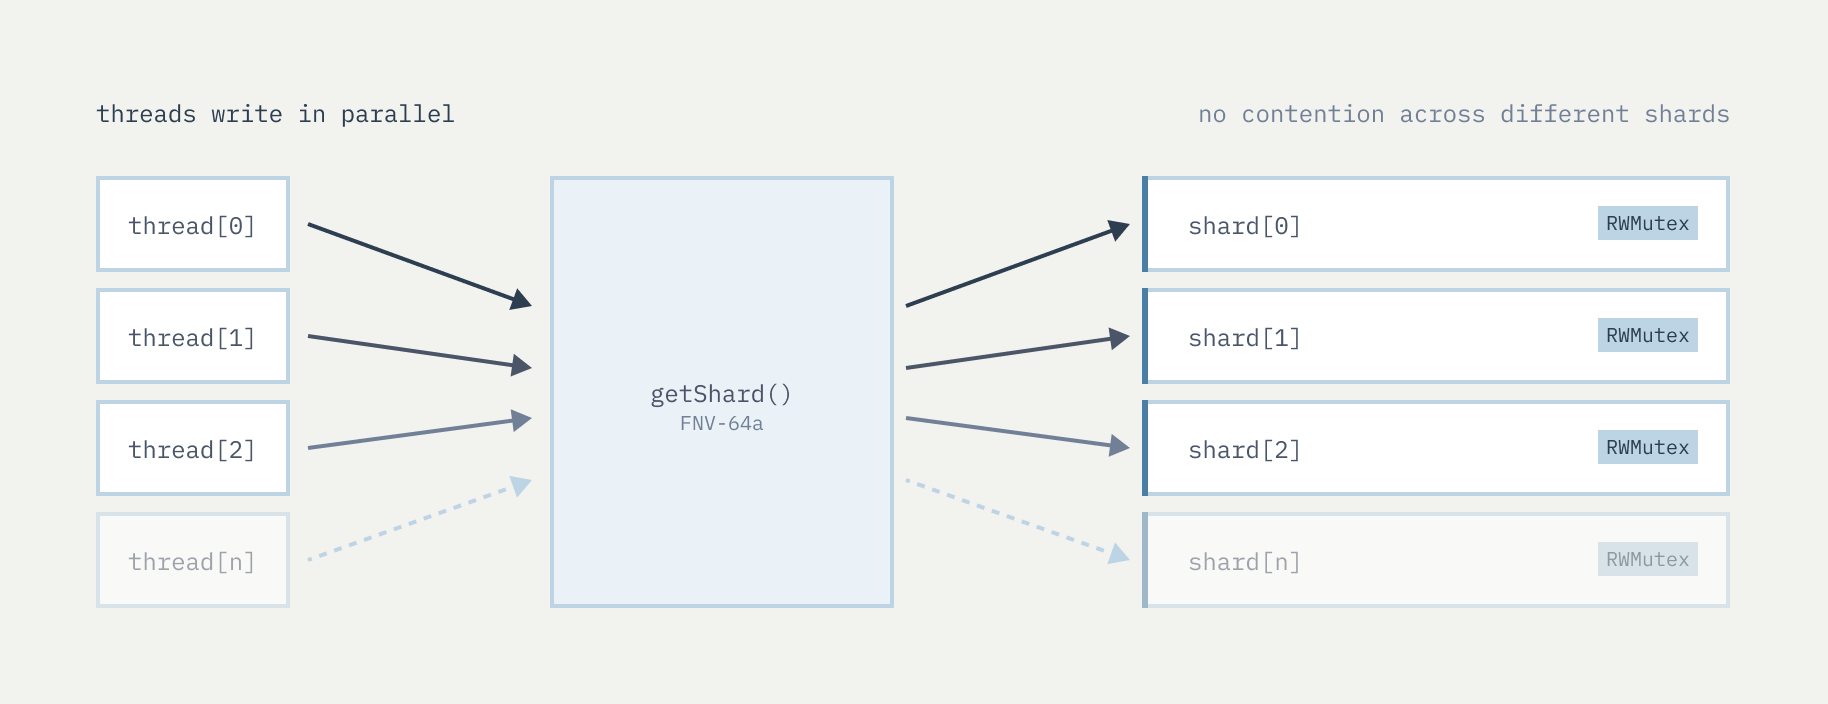
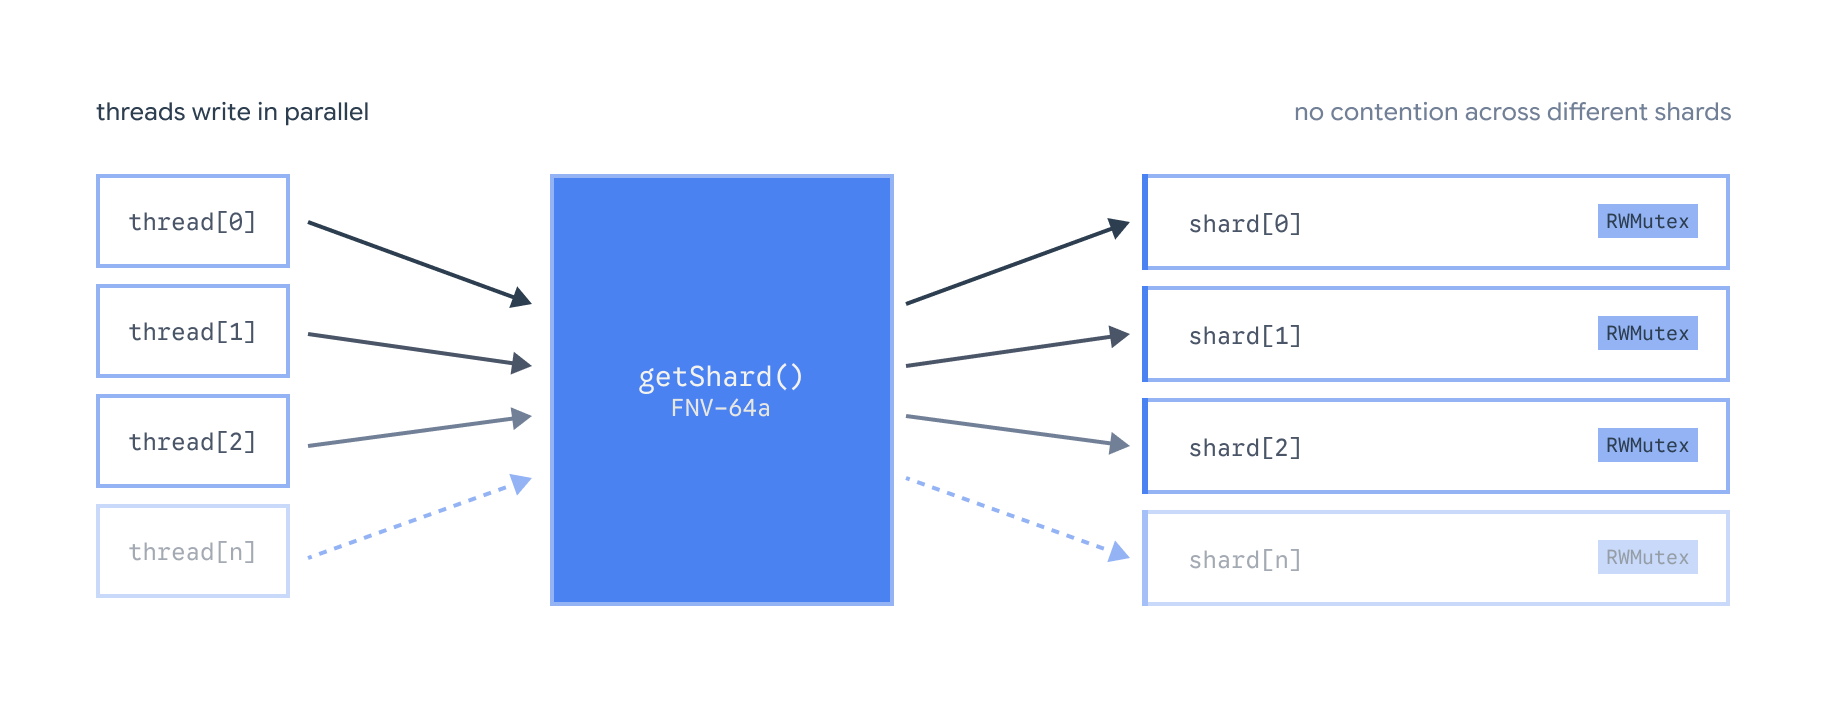
feat(articles): add code-block copy/language and words definition

diff --git a/layouts/_default/single.html b/layouts/_default/single.html
@@ -270,6 +270,168 @@
       border-radius: 0;
     }
 
+    /* CODE BLOCKS */
+    .article-body .code-block {
+      background: #272822;
+      border-radius: var(--radius);
+      overflow: hidden;
+      margin-top: 1.5rem;
+      margin-bottom: 1.5rem;
+    }
+
+    .code-block-bar {
+      display: flex;
+      justify-content: space-between;
+      align-items: center;
+      gap: 0.6rem;
+      padding: 0.75rem 1.5rem 0;
+      font-family: 'Google Sans Code', monospace;
+      font-size: 0.7rem;
+      letter-spacing: 0.06em;
+      line-height: 1.4;
+    }
+
+    .code-block-lang {
+      color: #a5a49a;
+      text-transform: lowercase;
+    }
+
+    .code-block-copy {
+      display: inline-flex;
+      align-items: center;
+      gap: 0.35rem;
+      font: inherit;
+      color: #a5a49a;
+      background: transparent;
+      border: none;
+      padding: 0;
+      cursor: pointer;
+      transition: color 0.2s;
+    }
+
+    .code-block-copy:hover {
+      color: #f8f8f2;
+    }
+
+    .code-block-copy.copied {
+      color: #a6e22e;
+    }
+
+    .article-body .code-block .highlight,
+    .article-body .code-block pre {
+      margin: 0;
+      border-radius: 0;
+    }
+
+    .article-body .code-block pre {
+      padding-top: 0.75rem;
+    }
+
+    /* DEFINITIONS */
+    .def {
+      position: relative;
+      display: inline-block;
+      cursor: help;
+      outline: none;
+    }
+
+    .def-term {
+      border-bottom: 1px dashed var(--ink-faint);
+      transition: color 0.2s, border-color 0.2s;
+    }
+
+    .def:hover .def-term,
+    .def:focus-visible .def-term,
+    .def.is-pinned .def-term {
+      color: var(--blue);
+      border-bottom-color: var(--blue);
+    }
+
+    .def.is-pinned .def-term { border-bottom-style: solid; }
+
+    /* inline code as the term: mark the code element itself, its own
+       background and border would otherwise hide the underline */
+    .def-code .def-term,
+    .def-term:has(> code) { border-bottom: none; }
+
+    .def-code .def-term > code,
+    .def-term > code {
+      border-bottom: 1px dashed var(--ink-faint);
+      transition: color 0.2s, background 0.2s, border-color 0.2s;
+    }
+
+    .def-code:hover .def-term > code,
+    .def-code:focus-visible .def-term > code,
+    .def-code.is-pinned .def-term > code,
+    .def:hover .def-term > code,
+    .def:focus-visible .def-term > code,
+    .def.is-pinned .def-term > code {
+      color: var(--blue);
+      background: var(--blue-bg);
+      border-color: var(--blue-border);
+      border-bottom-color: var(--blue);
+    }
+
+    .def-code.is-pinned .def-term > code,
+    .def.is-pinned .def-term > code { border-bottom-style: solid; }
+
+    .def-popup {
+      position: absolute;
+      left: 50%;
+      bottom: calc(100% + 0.5rem);
+      transform: translateX(calc(-50% + var(--def-shift, 0px)));
+      z-index: 10;
+      width: max-content;
+      max-width: min(20rem, calc(100vw - 2rem));
+      padding: 0.6rem 0.8rem;
+      background: var(--bg);
+      border: 1px solid var(--border);
+      border-radius: var(--radius);
+      box-shadow: 0 6px 20px rgba(44, 62, 80, 0.12);
+      font-family: var(--font-sans);
+      font-size: 0.82rem;
+      font-style: normal;
+      font-weight: 400;
+      line-height: 1.55;
+      color: var(--ink-muted);
+      text-align: left;
+      cursor: auto;
+      opacity: 0;
+      visibility: hidden;
+      transition: opacity 0.15s, visibility 0.15s;
+    }
+
+    /* invisible bridge so moving the cursor into the popup keeps it open */
+    .def-popup::after {
+      content: '';
+      position: absolute;
+      left: 0;
+      right: 0;
+      top: 100%;
+      height: 0.5rem;
+    }
+
+    .def-popup.def-popup--below {
+      bottom: auto;
+      top: calc(100% + 0.5rem);
+    }
+
+    .def-popup.def-popup--below::after {
+      top: auto;
+      bottom: 100%;
+    }
+
+    .def-popup code {
+      font-size: 0.85em;
+    }
+
+    .def:hover .def-popup,
+    .def:focus-visible .def-popup,
+    .def.is-pinned .def-popup {
+      opacity: 1;
+      visibility: visible;
+    }
+
     .article-body ul,
     .article-body ol {
       padding-left: 1.5rem;
@@ -332,6 +494,7 @@
       .article { padding: 2.5rem 0 2rem; }
       .article-back { margin-bottom: 2rem; }
       .article-body pre { padding: 1rem; }
+      .code-block-bar { padding: 0.65rem 1rem 0; }
       footer { flex-direction: column; gap: 1rem; align-items: flex-start; }
       .footer-links { flex-wrap: wrap; gap: 1rem; }
     }
@@ -382,6 +545,171 @@
   </footer>
 
 </div>
+
+{{ with site.Data.glossary }}
+<template id="glossary-defs">
+  {{ range . }}
+  <span data-term="{{ .term }}" data-match="{{ .match | jsonify }}">{{ .def | $.RenderString }}</span>
+  {{ end }}
+</template>
+{{ end }}
+
+<script>
+  document.querySelectorAll('.code-block-copy').forEach(function (btn) {
+    var label = btn.querySelector('.code-block-copy-label');
+    var timer;
+    btn.addEventListener('click', function () {
+      var code = btn.closest('.code-block').querySelector('code');
+      navigator.clipboard.writeText(code.innerText).then(function () {
+        btn.classList.add('copied');
+        label.textContent = 'copied';
+        clearTimeout(timer);
+        timer = setTimeout(function () {
+          btn.classList.remove('copied');
+          label.textContent = 'copy';
+        }, 1600);
+      });
+    });
+  });
+
+  // Wrap every occurrence of a glossary term in the article body.
+  (function () {
+    var body = document.querySelector('.article-body');
+    var store = document.getElementById('glossary-defs');
+    if (!body || !store) return;
+
+    var lookup = {};
+    var forms = [];
+    store.content.querySelectorAll('[data-term]').forEach(function (node) {
+      var entry = { html: node.innerHTML };
+      JSON.parse(node.getAttribute('data-match')).forEach(function (form) {
+        lookup[form.toLowerCase()] = entry;
+        forms.push(form);
+      });
+    });
+    if (!forms.length) return;
+
+    // longest first so "KV store" wins over a shorter overlapping form
+    forms.sort(function (a, b) { return b.length - a.length; });
+    var re = new RegExp('\\b(' + forms.map(function (f) {
+      return f.replace(/[.*+?^${}()|[\]\\]/g, '\\$&');
+    }).join('|') + ')\\b', 'gi');
+
+    var SKIP = 'pre, code, a, .def, h1, h2, h3, h4, h5, h6, figcaption';
+
+    function defSpan(entry) {
+      var span = document.createElement('span');
+      span.className = 'def';
+      span.tabIndex = 0;
+      span.setAttribute('role', 'button');
+      span.setAttribute('aria-expanded', 'false');
+      var term = document.createElement('span');
+      term.className = 'def-term';
+      var popup = document.createElement('span');
+      popup.className = 'def-popup';
+      popup.setAttribute('role', 'tooltip');
+      popup.innerHTML = entry.html;
+      span.appendChild(term);
+      span.appendChild(popup);
+      return span;
+    }
+
+    // plain text occurrences
+    var walker = document.createTreeWalker(body, NodeFilter.SHOW_TEXT, {
+      acceptNode: function (node) {
+        if (!node.nodeValue.trim()) return NodeFilter.FILTER_REJECT;
+        if (node.parentElement.closest(SKIP)) return NodeFilter.FILTER_REJECT;
+        return NodeFilter.FILTER_ACCEPT;
+      }
+    });
+    var texts = [];
+    while (walker.nextNode()) texts.push(walker.currentNode);
+
+    texts.forEach(function (node) {
+      var text = node.nodeValue;
+      re.lastIndex = 0;
+      if (!re.test(text)) return;
+      re.lastIndex = 0;
+
+      var frag = document.createDocumentFragment();
+      var last = 0;
+      var match;
+      while ((match = re.exec(text)) !== null) {
+        var entry = lookup[match[0].toLowerCase()];
+        if (!entry) continue;
+        if (match.index > last) {
+          frag.appendChild(document.createTextNode(text.slice(last, match.index)));
+        }
+        var span = defSpan(entry);
+        span.querySelector('.def-term').textContent = match[0];
+        frag.appendChild(span);
+        last = match.index + match[0].length;
+      }
+      if (last < text.length) frag.appendChild(document.createTextNode(text.slice(last)));
+      node.parentNode.replaceChild(frag, node);
+    });
+
+    // inline code occurrences, e.g. `sync.RWMutex`
+    body.querySelectorAll('code').forEach(function (code) {
+      if (code.closest('pre, .def, a')) return;
+      var entry = lookup[code.textContent.trim().toLowerCase()];
+      if (!entry) return;
+      var span = defSpan(entry);
+      span.classList.add('def-code');
+      code.parentNode.replaceChild(span, code);
+      span.querySelector('.def-term').appendChild(code);
+    });
+  })();
+
+  (function () {
+    var defs = document.querySelectorAll('.def');
+    if (!defs.length) return;
+
+    function place(def) {
+      var pop = def.querySelector('.def-popup');
+      pop.style.setProperty('--def-shift', '0px');
+      pop.classList.remove('def-popup--below');
+      var rect = pop.getBoundingClientRect();
+      var margin = 12;
+      var shift = 0;
+      if (rect.left < margin) shift = margin - rect.left;
+      else if (rect.right > window.innerWidth - margin) shift = window.innerWidth - margin - rect.right;
+      pop.style.setProperty('--def-shift', shift + 'px');
+      if (rect.top < margin) pop.classList.add('def-popup--below');
+    }
+
+    function unpinAll(except) {
+      defs.forEach(function (def) {
+        if (def === except) return;
+        def.classList.remove('is-pinned');
+        def.setAttribute('aria-expanded', 'false');
+      });
+    }
+
+    defs.forEach(function (def) {
+      def.addEventListener('mouseenter', function () { place(def); });
+      def.addEventListener('focus', function () { place(def); });
+      def.addEventListener('click', function (e) {
+        if (e.target.closest('.def-popup')) return;
+        e.stopPropagation();
+        var pinned = def.classList.toggle('is-pinned');
+        def.setAttribute('aria-expanded', pinned ? 'true' : 'false');
+        unpinAll(def);
+        if (pinned) place(def);
+      });
+      def.addEventListener('keydown', function (e) {
+        if (e.key !== 'Enter' && e.key !== ' ') return;
+        e.preventDefault();
+        def.click();
+      });
+    });
+
+    document.addEventListener('click', function () { unpinAll(null); });
+    document.addEventListener('keydown', function (e) {
+      if (e.key === 'Escape') unpinAll(null);
+    });
+  })();
+</script>
 
 </body>
 </html>

diff --git a/layouts/_markup/render-codeblock.html b/layouts/_markup/render-codeblock.html
@@ -1,0 +1,14 @@
+{{- $lang := or .Type "text" -}}
+<div class="code-block">
+  <div class="code-block-bar">
+    <span class="code-block-lang">{{ $lang }}</span>
+    <button class="code-block-copy" type="button" aria-label="Copy code">
+      <svg viewBox="0 0 16 16" width="12" height="12" fill="none" stroke="currentColor" stroke-width="1.5" stroke-linecap="round" stroke-linejoin="round" aria-hidden="true">
+        <rect x="5.5" y="5.5" width="8" height="9" rx="1.5"></rect>
+        <path d="M10.5 3.5v-1a1 1 0 0 0-1-1h-6a1 1 0 0 0-1 1v8a1 1 0 0 0 1 1h1"></path>
+      </svg>
+      <span class="code-block-copy-label">copy</span>
+    </button>
+  </div>
+  {{ transform.Highlight .Inner $lang .Options }}
+</div>

diff --git a/layouts/shortcodes/def.html b/layouts/shortcodes/def.html
@@ -1,0 +1,3 @@
+{{- $term := .Get 0 -}}
+{{- $def := trim .Inner "\n" -}}
+<span class="def" tabindex="0" role="button" aria-expanded="false"><span class="def-term">{{ $term | .Page.RenderString }}</span><span class="def-popup" role="tooltip">{{ $def | .Page.RenderString }}</span></span>

diff --git a/content/writing/how-to-shard-a-kv-store/index.md b/content/writing/how-to-shard-a-kv-store/index.md
@@ -6,7 +6,7 @@ tags: ["go", "distributed-systems", "concurrency", "performance"]
 description: "Shard count, key routing, and what to defer: a practical walkthrough of the sharding decisions behind kvgo."
 ---
 
-[kvgo](https://github.com/robin-vidal/kvgo) is a multithreaded, Redis-compatible KV store I'm building in Go. The first version was simple: a hash map behind a single lock. It worked, until I ran concurrent writes and watched every thread queue up waiting for access to the same structure.
+kvgo is a multithreaded, Redis-compatible KV store I'm building in Go. The first version was simple: a hash map behind a single lock. It worked, until I ran concurrent writes and watched every thread queue up waiting for access to the same structure.
 
 This post walks through the three decisions that shaped the sharding architecture: how many shards, how to route keys, and what not to build yet.
 
@@ -65,7 +65,7 @@ The shard count is fixed at startup. Since kvgo runs on a single node, there is 
 
 With shards in place, every operation needs to find the right shard for a given key. The requirements are simple: fast, uniform distribution, deterministic.
 
-I went with [FNV-64a](https://en.wikipedia.org/wiki/Fowler%E2%80%93Noll%E2%80%93Vo_hash_function) (Fowler-Noll-Vo, 64-bit alternate variant). It is fast, has excellent distribution for short string keys, and is built into Go's standard library. MD5 or SHA would work too, but cryptographic properties are overkill here.
+I went with FNV-64a. It is fast, has excellent distribution for short string keys, and is built into Go's standard library. MD5 or SHA would work too, but cryptographic properties are overkill here.
 
 ```go
 func getShard(key string, shardAmount int) int {
